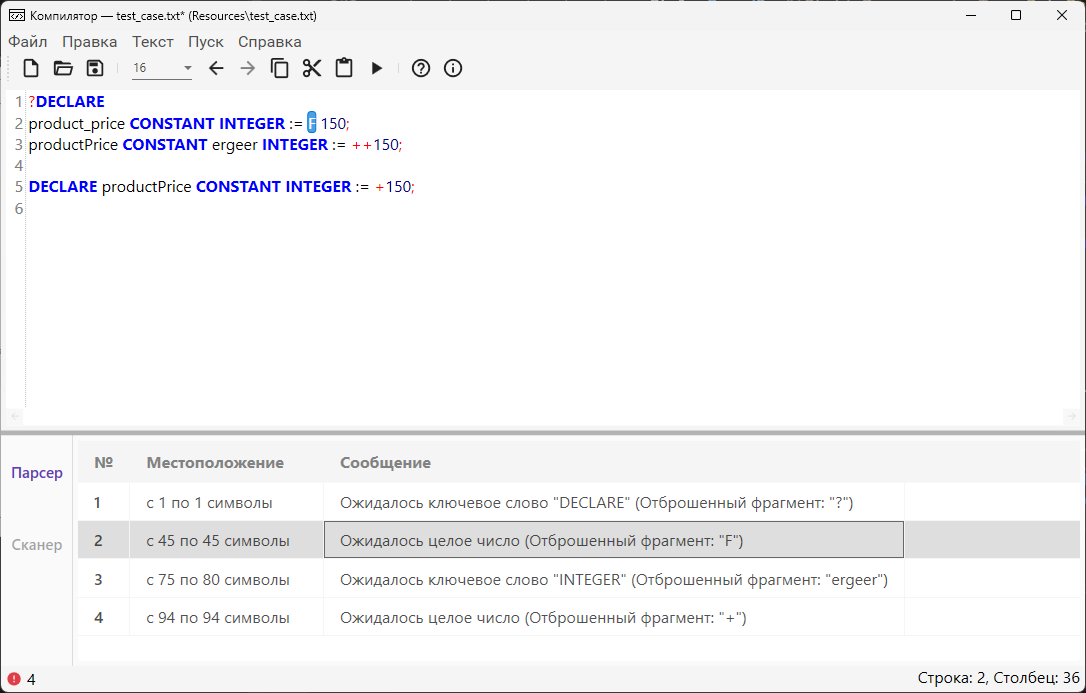
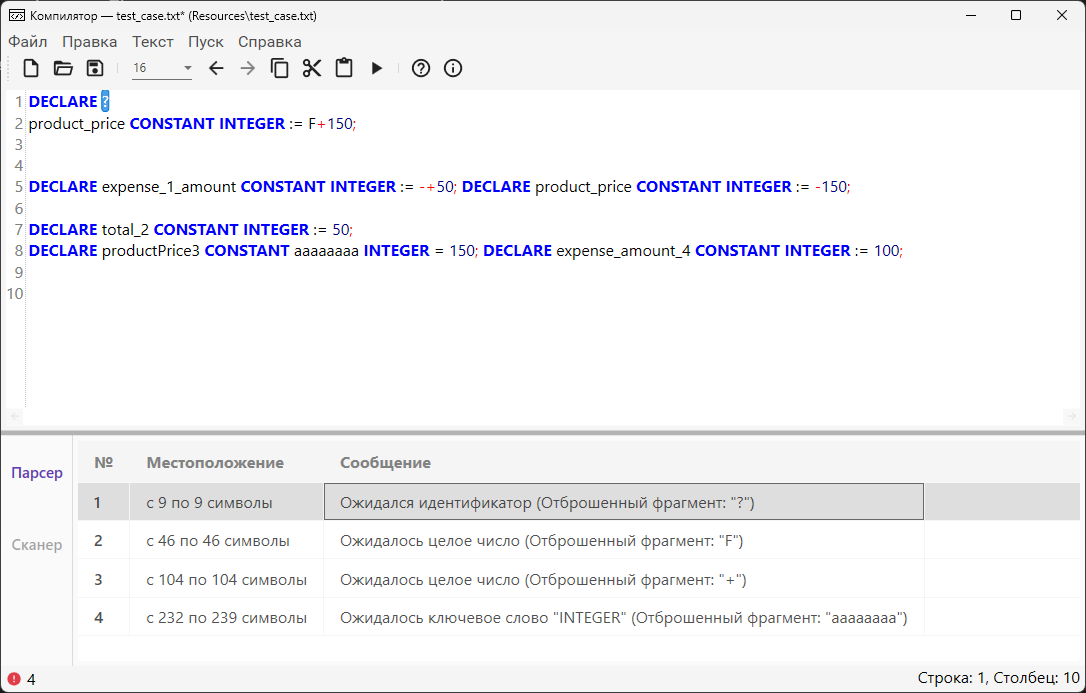
fixed grammar

diff --git a/Compiler/Resources/Grammar.html b/Compiler/Resources/Grammar.html
@@ -28,20 +28,19 @@
 <body>
     <h2>Грамматика</h2>
     <div class="grammar">
-        G[Z] = { V<sub>T</sub>, V<sub>N</sub>, P, Z }<br><br>
-        Z = &lt;целочисленная константа&gt;<br><br>
-        V<sub>T</sub> = { ‘DECLARE’, ‘INTEGER’, ‘CONSTANT’, ‘a’…’z’, ‘A’…’Z’, ‘0’…’9’, ‘:’, ‘;’, ‘+’, ‘-‘, ‘=’, ‘_’ }<br><br>
-        V<sub>N</sub> = { &lt;целочисленная константа&gt;, &lt;выражение&gt;, &lt;константа&gt;, &lt;присваивание&gt;, &lt;число&gt;, &lt;знак&gt;, &lt;Б&gt;, &lt;Ц&gt; }<br><br>
+        G[&lt;ЦК&gt; = &lt;целочисленная константа&gt;]:<br><br>
+        V<sub>T</sub> = { ‘a’…’z’, ‘A’…’Z’, ‘0’…’9’, ‘:’, ‘;’, ‘+’, ‘-‘, ‘=’, ‘_’ }<br><br>
+        V<sub>N</sub> = { &lt;ЦК&gt;, &lt;константа&gt;, &lt;присваивание&gt;, &lt;число&gt;, З, Б, Ц, E, ID }<br><br>
         P = {<br>
-        &emsp;1. &lt;целочисленная константа&gt; → ‘DECLARE’ ( &lt;выражение&gt; )<sup>+</sup><br>
-        &emsp;2. &lt;выражение&gt; → &lt;id&gt; &lt;константа&gt; &lt;число&gt; ’;’<br>
-        &emsp;3. &lt;id&gt; → &lt;Б&gt; ( &lt;Б&gt; | &lt;Ц&gt; | ‘_’ )<sup>*</sup><br>
+        &emsp;1. &lt;ЦК&gt; → ‘DECLARE’ E<br>
+        &emsp;2. E → ID &lt;константа&gt; &lt;число&gt; ’;’<br>
+        &emsp;3. ID → Б { Б | Ц | ‘_’ }<br>
         &emsp;4. &lt;константа&gt; → ‘CONSTANT’ ’INTEGER’ &lt;присваивание&gt;<br>
-        &emsp;5. &lt;число&gt; → [ &lt;знак&gt; ] ( &lt;Ц&gt; )<sup>+</sup><br>
-        &emsp;6. &lt;присваивание&gt; → [ ‘:’ ] ‘=’<br>
-        &emsp;7. &lt;знак&gt; → { ‘+’ | ‘-‘ }<br>
-        &emsp;8. &lt;Б&gt; → ‘a’ | ‘b’ | … | ‘z’ | ‘A’ | ‘B’ | … | ‘Z’<br>
-        &emsp;9. &lt;Ц&gt; → ‘0’ | ‘1’ | … | ‘9’<br>
+        &emsp;5. &lt;число&gt; → З [ Ц ]<br>
+        &emsp;6. &lt;присваивание&gt; → ‘:=’ | ‘=’<br>
+        &emsp;7. З → ‘+’ | ‘-‘ | ε<br>
+        &emsp;8. Б → ‘a’ | ‘b’ | … | ‘z’ | ‘A’ | ‘B’ | … | ‘Z’<br>
+        &emsp;9. Ц → ‘0’ | ‘1’ | … | ‘9’<br>
         }
     </div>
 </body>

diff --git a/Compiler/Resources/GrammarClassification.html b/Compiler/Resources/GrammarClassification.html
@@ -70,6 +70,6 @@
         <li>В левой части правила может быть только один нетерминальный символ.</li>
         <li>В правой части правила может быть либо один терминальный символ и один нетерминальный символ, либо только один терминальный символ, либо пустая строка.</li>
     </ol>
-    <p>Грамматика, разработанная в этой программе, соответствует описанию автоматной грамматики, что подтверждает ее строгие ограничения на форму записи правил вывода.</p>
+    <p>Таким образом, продукции разработанной грамматики соответствует правилам автоматной грамматки.</p>
 </body>
 </html>

diff --git a/Compiler/Resources/ProblemStatement.html b/Compiler/Resources/ProblemStatement.html
@@ -72,7 +72,6 @@
     <p>В соответствии с разработанной автоматной грамматикой синтаксический анализатор (парсер) целочисленных констант будет считать верными следующие записи:</p>
 
     <pre><code class="language-sql">DECLARE
-product_price CONSTANT INTEGER = 150;
 expense_1_amount CONSTANT INTEGER := -50;</code></pre>
 
     <pre><code class="language-sql">DECLARE total_amount CONSTANT INTEGER := -150;</code></pre>

diff --git a/Compiler/Models/Parser/States/SemicolonState.cs b/Compiler/Models/Parser/States/SemicolonState.cs
@@ -27,14 +27,7 @@ public class SemicolonState : IState
 		}
 		else
 		{
-            if (nextType != null && nextType == LexemeType.Identifier)
-            {
-                _parser.CurrentState = _parser.IdState;
-            }
-            else
-            {
-                _parser.CurrentState = _parser.DeclareState;
-            }
+            _parser.CurrentState = _parser.DeclareState;
         }
 
         return flag;
